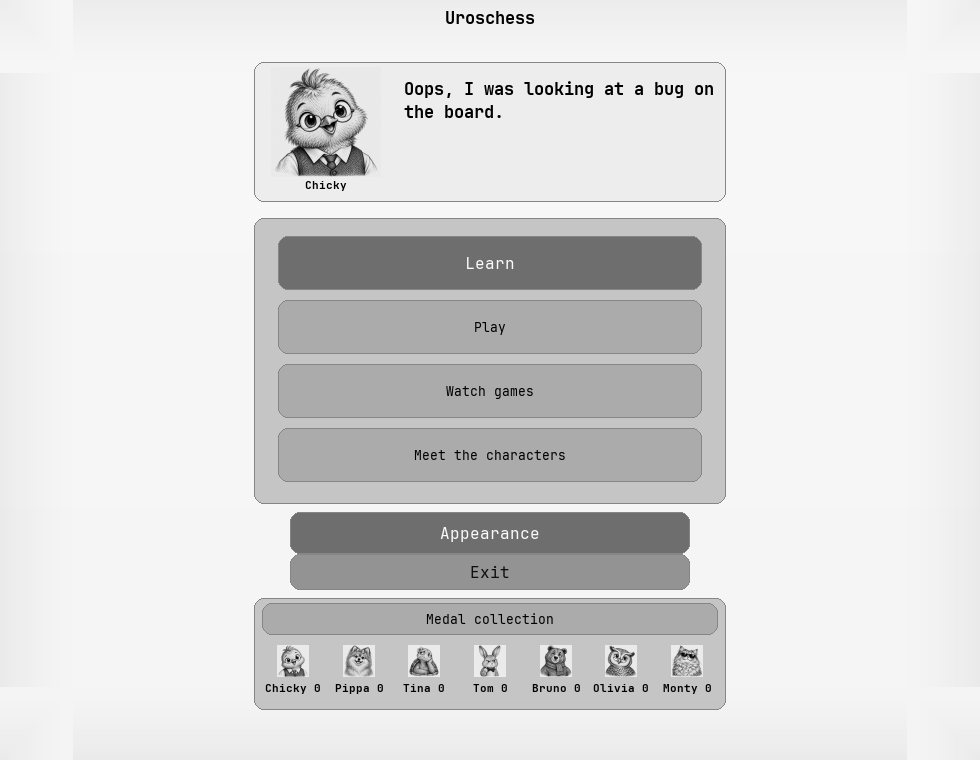
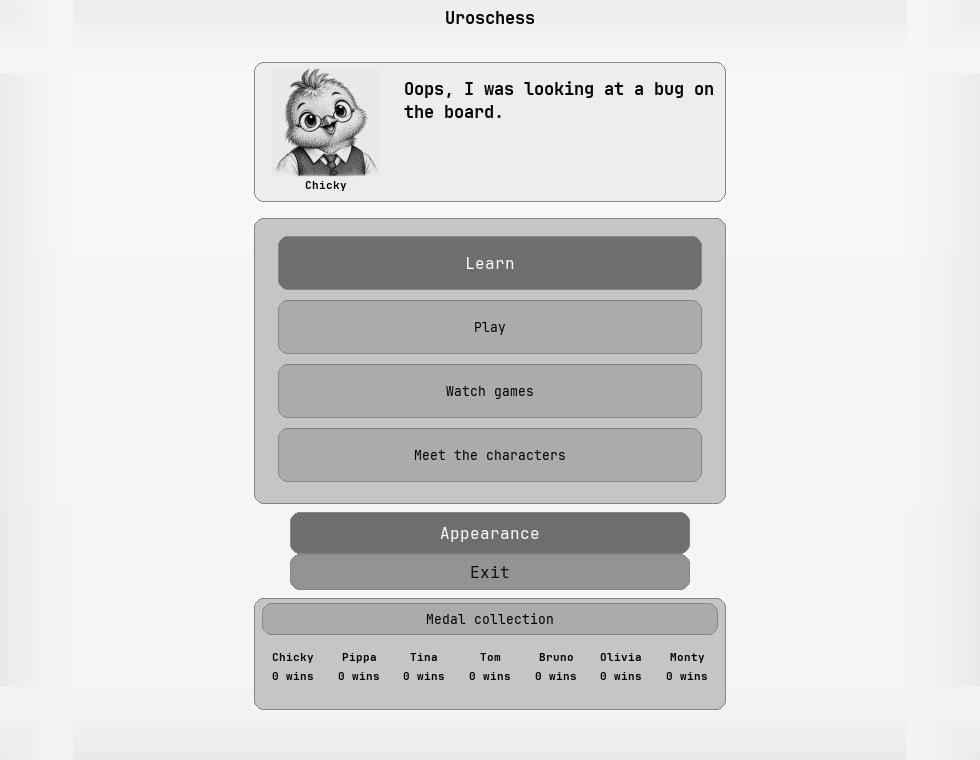
Show one circular medal per win in collection

Changed region(s): [[0.2755, 0.8474, 0.5204, 0.9079], [0.551, 0.8474, 0.7347, 0.9079]]

diff --git a/chess_game/ui.py b/chess_game/ui.py
@@ -2516,21 +2516,17 @@ class ChessUI(MenuLayoutMixin):
                           min(p.rounding, 12))
         _hairline(self.screen, rect, p.panel_line, min(p.rounding, 12))
         cell = (rect.w - 12) / len(ROSTER)
-        size = max(20, min(32, int(cell) - 8))
         for index, opponent in enumerate(ROSTER):
             count = self.collection_counts[opponent.ident]
-            center = (round(rect.x + 6 + cell * (index + .5)), rect.y + 63)
-            if count:
-                self._draw_medal_portrait(opponent.portrait, center, size,
-                                         gold=count >= 10)
-            else:
-                self.screen.blit(_portrait(opponent.portrait, size, p.field, p.text),
-                                 (center[0] - size // 2, center[1] - size // 2))
-            label = "{} {}".format(opponent.name, count)
-            fitted = _fit_text(self.tag_font, label, int(cell) - 4)
+            center_x = round(rect.x + 6 + cell * (index + .5))
+            title = _fit_text(self.tag_font, opponent.name, int(cell) - 4)
+            rendered = self.tag_font.render(title, True, p.text)
+            self.screen.blit(rendered, rendered.get_rect(
+                centerx=center_x, y=rect.y + 51))
+            fitted = _fit_text(self.tag_font, str(count) + " wins", int(cell) - 4)
             rendered = self.tag_font.render(fitted, True, p.text)
             self.screen.blit(rendered, rendered.get_rect(
-                centerx=center[0], y=center[1] + size // 2 + 3))
+                centerx=center_x, y=rect.y + 70))
 
     def _draw_challenge_result(self):
         if self.challenge is None:
@@ -2620,24 +2616,45 @@ class ChessUI(MenuLayoutMixin):
 
     def _draw_menu_button(self, b, hot, rad, focused=False):
         p = self.pal
+        if b.kind == "medal_row":
+            _flat_button(self.screen, b.rect, p.btn, p.panel_line, rad)
+            opponent = next(item for item in ROSTER
+                            if item.portrait == b.value)
+            summary = medal_summary(self.collection_counts[opponent.ident])
+            name, strength = b.label.split(" · ", 1)
+            self.screen.blit(self.text_font.render(name, True, p.text),
+                             (b.rect.x + 8, b.rect.y + 5))
+            strength_text = self.tag_font.render(strength, True, p.text)
+            self.screen.blit(strength_text,
+                             (b.rect.right - 8 - strength_text.get_width(),
+                              b.rect.y + 10))
+            if summary.gold_portrait:
+                size = min(50, b.rect.h - 27)
+                center = (b.rect.x + 8 + size // 2, b.rect.bottom - 3 - size // 2)
+                self._draw_medal_portrait(b.value, center, size, gold=True)
+                detail = _fit_text(self.small_font, summary.label, b.rect.w - 80)
+                self.screen.blit(self.small_font.render(detail, True, p.text),
+                                 (b.rect.x + 72, b.rect.y + 44))
+            else:
+                self.screen.blit(self.small_font.render(summary.label, True, p.text),
+                                 (b.rect.x + 8, b.rect.y + 28))
+                diameter = min(26, (b.rect.w - 61) // 10)
+                gap = (b.rect.w - 16 - 10 * diameter) // 9
+                center_y = b.rect.bottom - 5 - diameter // 2
+                for index in range(10):
+                    center = (b.rect.x + 8 + diameter // 2 +
+                              index * (diameter + gap), center_y)
+                    if index < summary.small_portraits:
+                        self._draw_medal_portrait(b.value, center, diameter)
+                    else:
+                        pygame.draw.circle(self.screen, p.panel_line, center,
+                                           diameter // 2, width=1)
+            return
         if b.kind == "challenge":
             _flat_button(self.screen, b.rect,
                          p.btn_hot if hot else p.btn, p.panel_line, rad)
-            count = None
-            if self.menu_view == "collection":
-                opponent = next(item for item in ROSTER
-                                if item.portrait == b.value)
-                count = self.collection_counts[opponent.ident]
-                if count >= 10:
-                    self._draw_medal_portrait(
-                        b.value, (b.rect.x + 39, b.rect.y + 41), 64,
-                        gold=True)
-                else:
-                    self.screen.blit(_portrait(b.value, 54, p.field, p.text),
-                                     (b.rect.x + 8, b.rect.y + 15))
-            else:
-                portrait = _portrait(b.value, 54, p.field, p.text)
-                self.screen.blit(portrait, (b.rect.x + 8, b.rect.y + 18))
+            portrait = _portrait(b.value, 54, p.field, p.text)
+            self.screen.blit(portrait, (b.rect.x + 8, b.rect.y + 18))
             x = b.rect.x + 72
             width = b.rect.right - x - 8
             name, strength = b.label.split(" · ", 1)
@@ -2652,12 +2669,6 @@ class ChessUI(MenuLayoutMixin):
                 self.screen.blit(self.small_font.render(detail, True, p.text),
                                  (x, b.rect.y + 36 +
                                   line_index * self.small_font.get_linesize()))
-            if count is not None and 1 <= count <= 9:
-                size = min(18, max(10, (width - 4) // count - 2))
-                for index in range(count):
-                    self._draw_medal_portrait(
-                        b.value, (x + size // 2 + index * (size + 2),
-                                  b.rect.y + 70), size)
             if focused:
                 draw_focus_ring(self.screen, b.rect, p.accent, rad)
             return

diff --git a/tests/test_medals.py b/tests/test_medals.py
@@ -202,6 +202,41 @@ def test_result_snapshot_shows_new_badge_then_rematch_medal(tmp_path):
         pygame.quit()
 
 
+def test_collection_draws_one_circle_per_win_then_one_gold(tmp_path, monkeypatch):
+    import pygame
+    from chess_game.ui import ChessUI
+
+    ui = ChessUI(tmp_path / "progress.sqlite3")
+    try:
+        ui.collection_counts.update({
+            "chicky": 0, "pippa-pomeranian": 1,
+            "tina-turtle": 9, "tom-rabbit": 10})
+        ui._open_menu_section("collection")
+        ui._build_menu_buttons()
+        drawn = []
+        original = ui._draw_medal_portrait
+
+        def record(filename, center, size, gold=False):
+            drawn.append((filename, size, gold))
+            return original(filename, center, size, gold)
+
+        monkeypatch.setattr(ui, "_draw_medal_portrait", record)
+        ui._draw_menu()
+        assert len([item for item in drawn if item[0] == "chicky.bmp"]) == 0
+        assert len([item for item in drawn if item[0] == "pomeranian.bmp"]) == 1
+        assert len([item for item in drawn if item[0] == "tina.bmp"]) == 9
+        gold = [item for item in drawn if item[0] == "tom.bmp"]
+        assert len(gold) == 1 and gold[0][2]
+        assert gold[0][1] > drawn[0][1]
+        drawn.clear()
+        ui.collection_counts["tom-rabbit"] = 11
+        ui._draw_menu()
+        assert len([item for item in drawn if item[0] == "tom.bmp"]) == 1
+    finally:
+        ui.progress_store.close()
+        pygame.quit()
+
+
 def test_collection_and_master_acknowledgement_ui(tmp_path):
     import pygame
     from chess_game.ui import ChessUI

diff --git a/chess_game/menu.py b/chess_game/menu.py
@@ -139,7 +139,7 @@ class MenuLayoutMixin:
                 (x, top + 39 + row * (84 if compact else 90), w,
                  78 if compact else 82),
                 opponent.name + " · " + opponent.strength,
-                lambda: None, kind="challenge", detail=summary.label,
+                lambda: None, kind="medal_row", detail=summary.label,
                 value=opponent.portrait))
         half = (w - 8) // 2
         nav_y = card.bottom - 45 if compact else top + 405

diff --git a/README.md b/README.md
@@ -45,9 +45,10 @@ Omarchy colours when available and otherwise uses a built-in dark theme.
   Saved match archive so diagnostic copies can be exported later. Exports are
   written beside the local progress database; the recovery screen shows the
   filename and folder. Every verified checkmate win also earns a character
-  medal, including rematches. The main menu's **Medal collection** shows
-  lifetime totals: up to nine small portrait medals, then one larger gold
-  portrait with the count. The result screen distinguishes a new colour badge
+  medal, including rematches. The main menu links to **Medal collection**,
+  where each character has ten circular slots. Each win fills one portrait
+  circle; the tenth replaces the row with one larger gold circle and a lifetime
+  count. The result screen distinguishes a new colour badge
   from a previously earned one. The Master celebration is dismissed explicitly
   and its title remains earned.
 - **Learn:** try short move exercises about openings, tactics, and endgames.

diff --git a/docs/development/calibration-and-rewards.md b/docs/development/calibration-and-rewards.md
@@ -39,6 +39,9 @@ needed before any strength tuning.
 
 Schema 10 and the medal UI are described in [ADR 0003](../architecture/0003-challenge-win-events.md).
 The result card reports this match's medal and whether its colour badge is
-new, plus the next unlocked opponent. The Collection view and compact main
-menu shelf show lifetime counts for all seven characters. The Master title is
-durable and its celebration is acknowledged only by an explicit action.
+new, plus the next unlocked opponent. In Collection, each character has a
+ten-circle row: each win fills one circular portrait; at ten wins the row is
+replaced by one larger gold portrait circle, while the lifetime count keeps
+increasing. The compact main menu shelf shows text totals and opens Collection.
+The Master title is durable and its celebration is acknowledged only by an
+explicit action.
